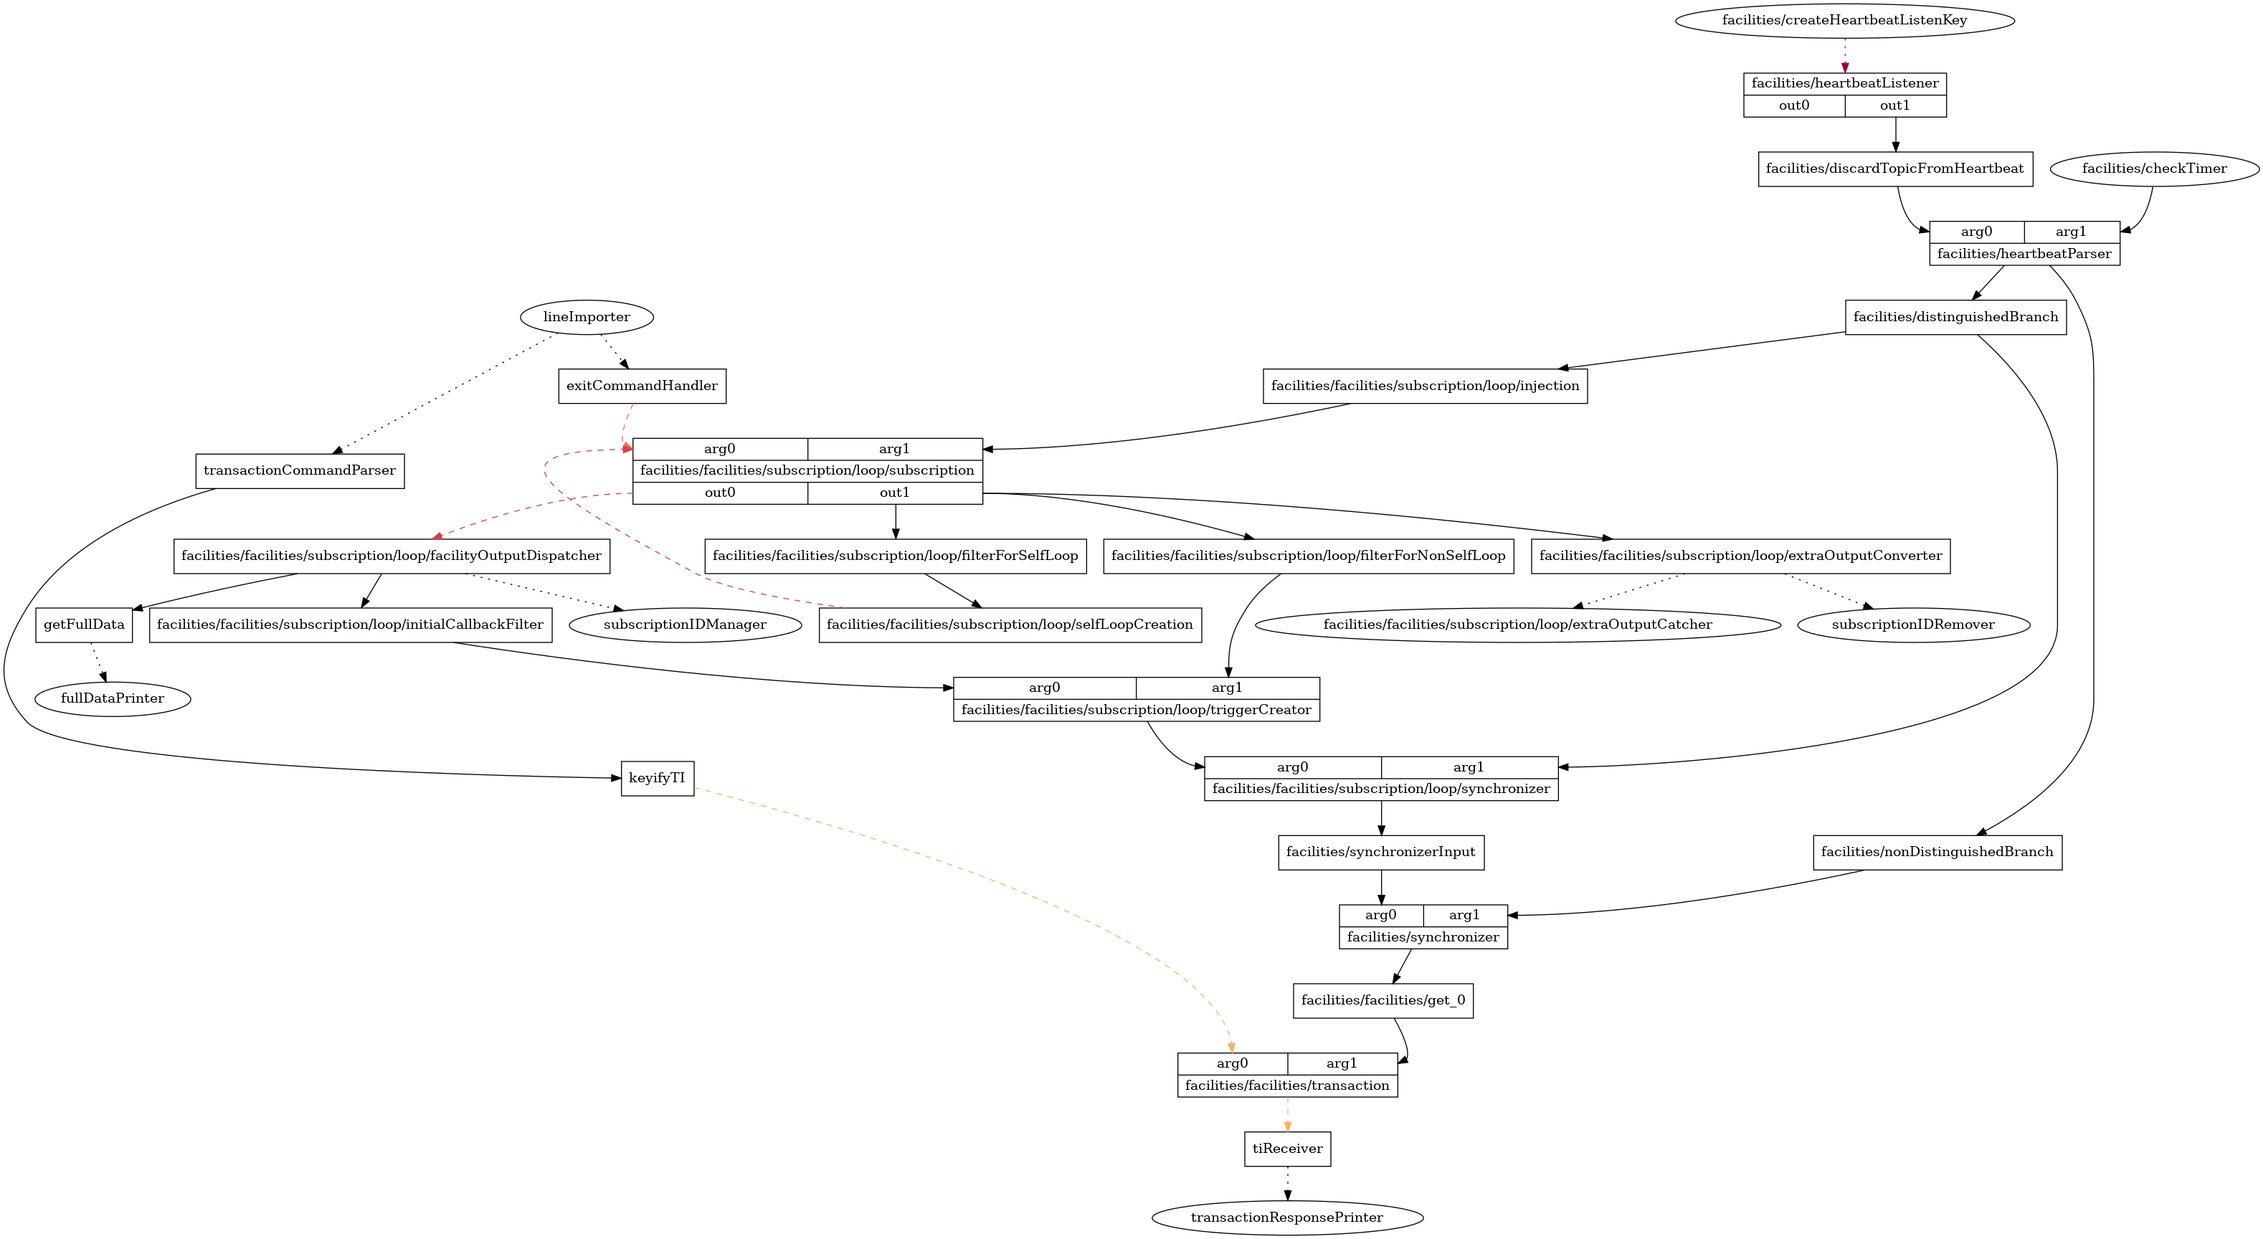
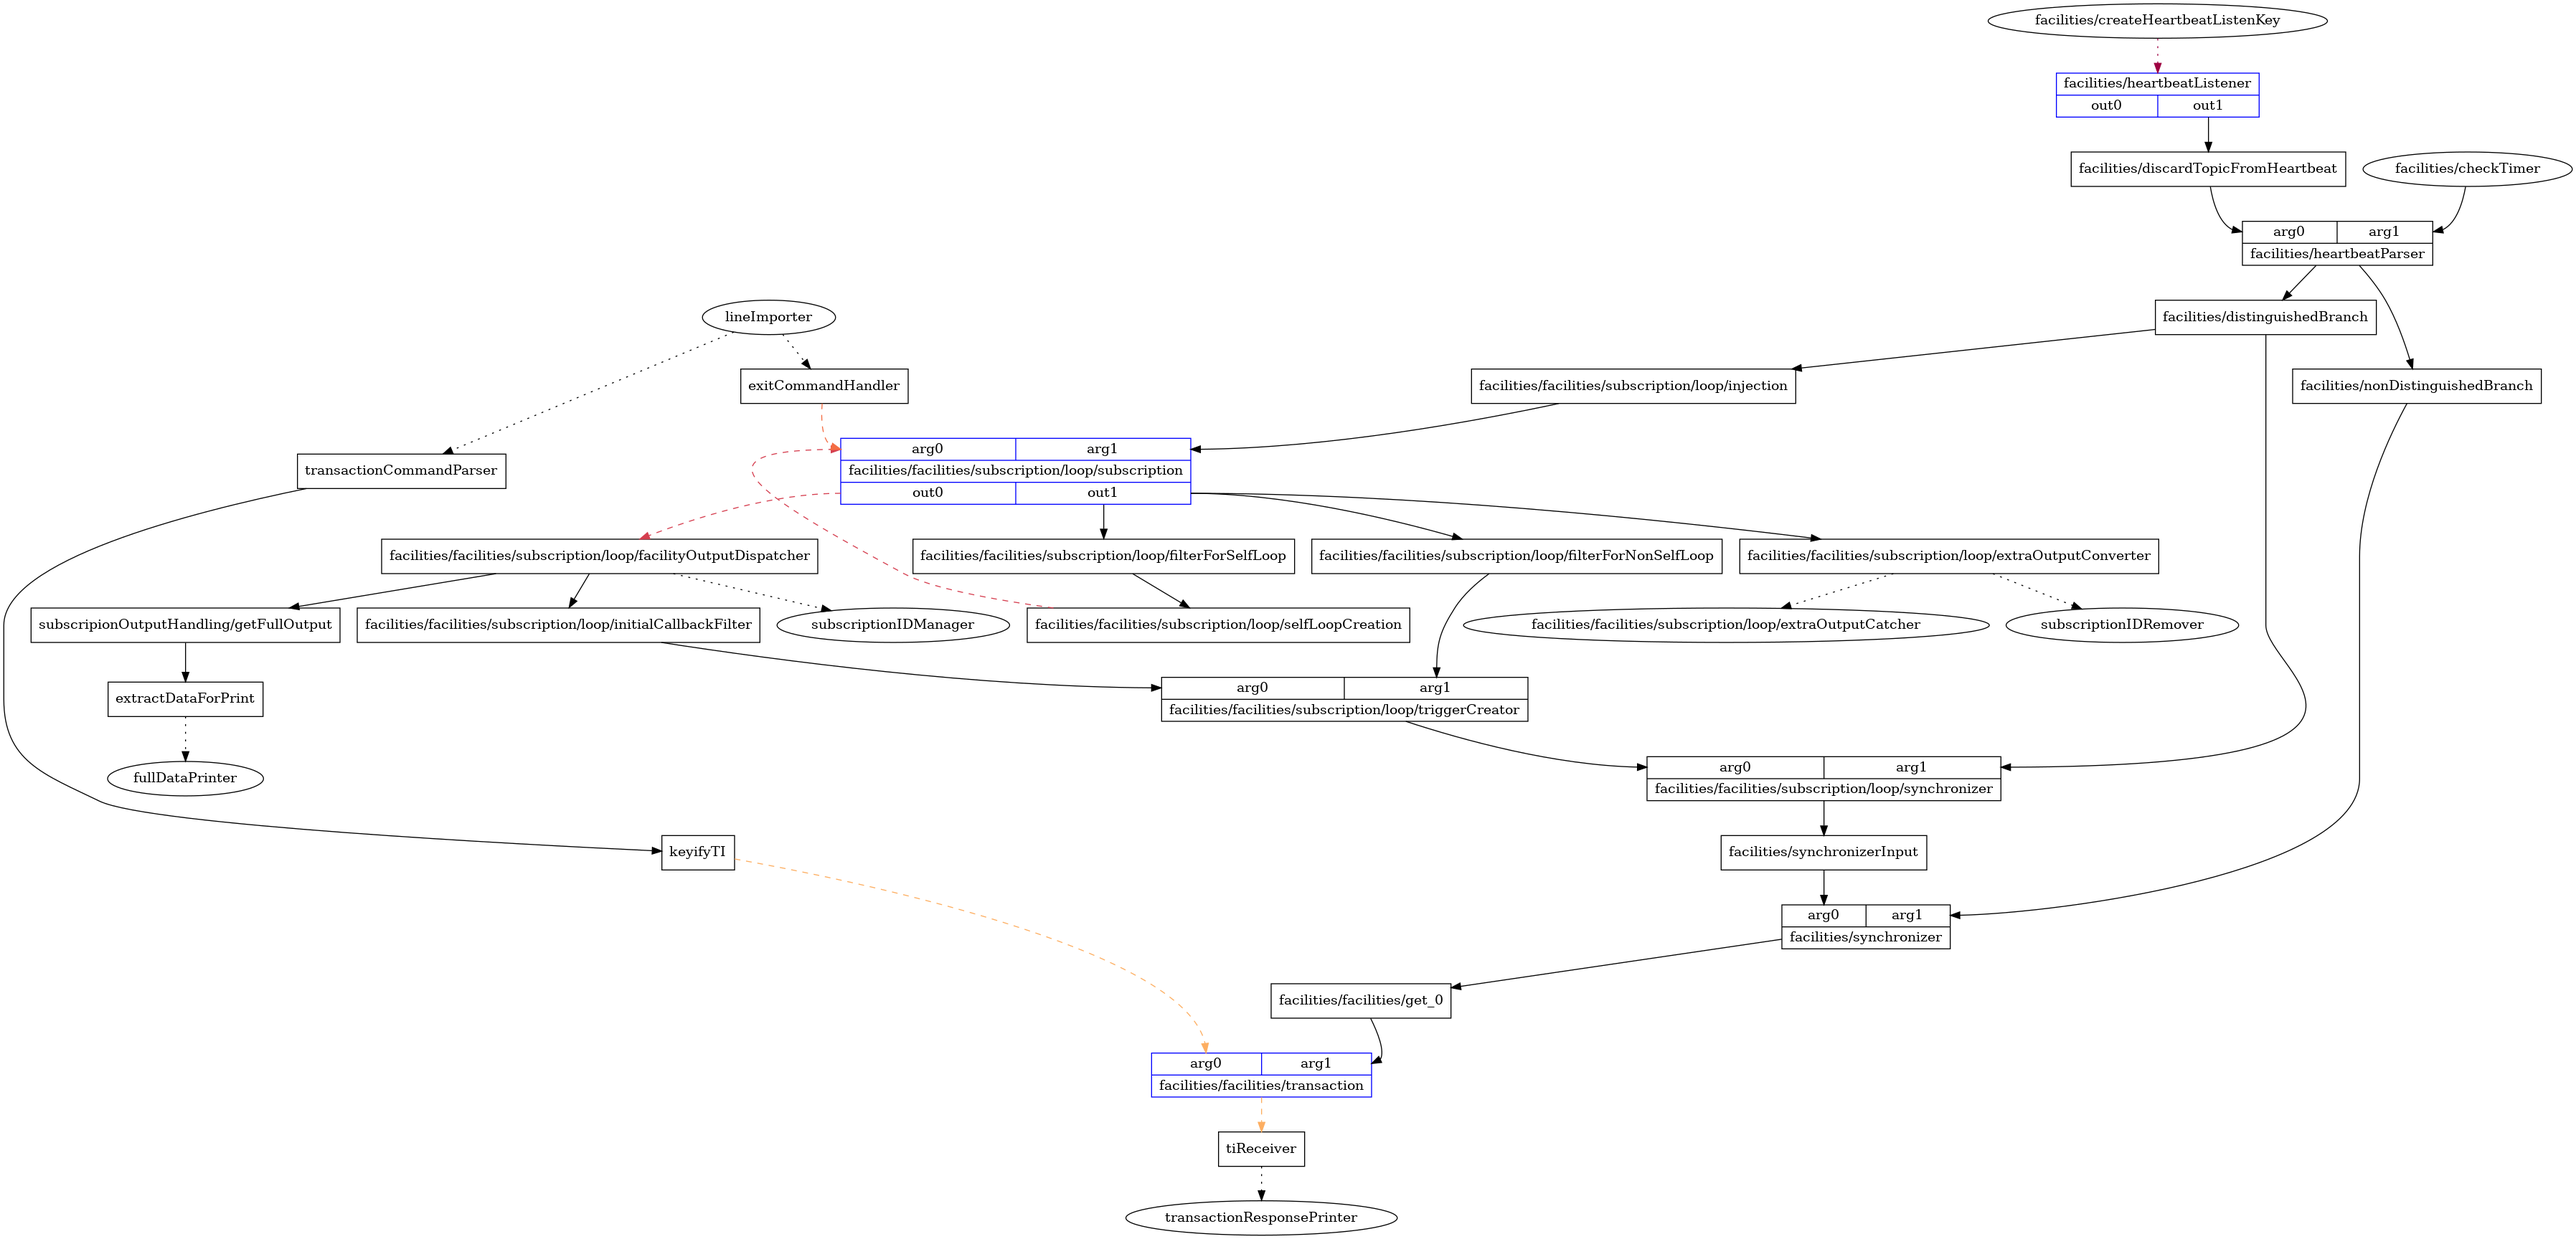
add snapshotrequest support, allow auto unsubscribe

diff --git a/db_one_list_subscription/node_client/client.ts b/db_one_list_subscription/node_client/client.ts
@@ -10,6 +10,7 @@ enum Command {
     , Delete 
     , Unsubscribe
     , List
+    , Snapshot
     , Unknown
 };
 
@@ -124,6 +125,13 @@ async function run(args : Args) {
                 , 0
             ]);
             break;
+        case Command.Snapshot:
+            keyify.pipe(subscriptionStream[0]);
+            subscriptionStream[1].pipe(resultHandlingStream);
+            sendCommand(keyify, [
+                4, {keys: [0]}
+            ]);
+            break;
         default:
             break;
     }
@@ -149,6 +157,9 @@ async function run(args : Args) {
             break;
         case 'list':
             cmd = Command.List;
+            break;
+        case 'snapshot':
+            cmd = Command.Snapshot;
             break;
         default:
             break;

diff --git a/db_one_list_subscription/DBOneListSinglePassPrinter.cpp b/db_one_list_subscription/DBOneListSinglePassPrinter.cpp
@@ -99,8 +99,8 @@ typename R::template Sink<basic::VoidStruct> dbSinglePassPrinterLogic(
         }
     );
 
-    auto printFullUpdate = M::template liftPure<typename M::template KeyedData<typename GS::Input, DI::FullUpdate>>(
-        [&env](typename M::template KeyedData<typename GS::Input, DI::FullUpdate> &&update) -> typename M::EnvironmentType::IDType {
+    auto printFullUpdate = M::template pureExporter<typename M::template KeyedData<typename GS::Input, DI::FullUpdate>>(
+        [&env](typename M::template KeyedData<typename GS::Input, DI::FullUpdate> &&update) {
             std::ostringstream oss;
             oss << "Got full update {";
             oss << "globalVersion=" << update.data.version;
@@ -135,25 +135,9 @@ typename R::template Sink<basic::VoidStruct> dbSinglePassPrinterLogic(
             oss << "]";
             oss << "} (from " << env.id_to_string(update.key.id()) << ")";
             env.log(infra::LogLevel::Info, oss.str());
-
-            return update.key.id();
         }
     );
-    
-    auto unsubscriber = M::template liftMaybe<typename M::EnvironmentType::IDType>(
-        [](typename M::EnvironmentType::IDType &&id) -> std::optional<typename GS::Input> {
-            static std::atomic<bool> unsubscribed = false;
-            if (!unsubscribed) {
-                unsubscribed = true;
-                return typename GS::Input {
-                    typename GS::Unsubscription {std::move(id)}
-                };
-            } else {
-                return std::nullopt;
-            }
-        }
-    );
-   
+      
     auto createCommand = M::template liftPure<basic::VoidStruct>(
         [](basic::VoidStruct &&) -> typename GS::Input {
             return typename GS::Input {
@@ -174,15 +158,11 @@ typename R::template Sink<basic::VoidStruct> dbSinglePassPrinterLogic(
         r 
         , "outputHandling"
         , queryConnector
-        , std::move(keyedCommand)     
+        , std::move(keyedCommand)   
+        , std::chrono::milliseconds(100)   //delay this amount of time before unsubscription
     );
     r.exportItem("printAck", printAck, clientOutputs.rawSubscriptionOutputs.clone());
-    //Please note that as soon as keyify is hooked, we don't need to
-    //call queryConnector again, since the keyify'ed unsubscription
-    //order will flow into the facility. If in doubt, look at the generated graph
-    r.execute(keyify
-        , r.execute("unsubscriber", unsubscriber
-            , r.execute("printFullUpdate", printFullUpdate, clientOutputs.fullUpdates.clone())));
+    r.exportItem("printFullUpdate", printFullUpdate, clientOutputs.fullUpdates.clone());
 
     return r.actionAsSink(createCommand);
 }

diff --git a/db_one_list_subscription/python_client/client.py b/db_one_list_subscription/python_client/client.py
@@ -16,6 +16,7 @@ class Command(Enum):
     Delete = 2
     Unsubscribe = 3
     List = 4
+    Snapshot = 5
 
 def attachMyIdentity(x : bytes) -> bytes:
     return cbor2.dumps(["python_client", x])
@@ -31,13 +32,15 @@ def parseCommand(s : str) -> Command:
         return Command.Unsubscribe
     elif s == 'list':
         return Command.List
+    elif s == 'snapshot':
+        return Command.Snapshot
     else:
         return None
 
 def setup_queue(cmd : Command, qin : asyncio.Queue, qout : asyncio.Queue) -> List[asyncio.Task] :
     subscriptionLocator = "rabbitmq://127.0.0.1::guest:guest:test_db_one_list_cmd_subscription_queue"
     transactionLocator = "rabbitmq://127.0.0.1::guest:guest:test_db_one_list_cmd_transaction_queue"
-    if cmd in [Command.Subscribe, Command.Unsubscribe, Command.List]:
+    if cmd in [Command.Subscribe, Command.Unsubscribe, Command.List, Command.Snapshot]:
         return TMTransport.MultiTransportFacilityClient.facility(
             subscriptionLocator, qin, qout,
             identityAttacher=attachMyIdentity
@@ -109,6 +112,11 @@ async def delete(qin : asyncio.Queue, qout : asyncio.Queue, name : str, old_vers
         }
     ]))
 
+async def snapshot(qin : asyncio.Queue, qout : asyncio.Queue):
+    await send(qin, qout, cbor2.dumps([
+        4, {'keys': [0]}
+    ]))
+
 @click.command()
 @click.option('--command', help='subscribe|update|delete|unsubscribe|list')
 @click.option('--name', help='name field for db row', default='')
@@ -134,9 +142,12 @@ def run(command : str, name : str, amount : int, stat : float, old_version : int
         elif cmd == Command.Delete:
             tasks.append(asyncio.create_task(delete(qin, qout, name, old_version, old_count)))
         elif cmd == Command.Unsubscribe:
-            tasks.append(asyncio.create_task(unsubscribe(qin, qout, id)))
+            tasks.append(asyncio.create_task(unsubscribe(qin, qout, id)))      
         elif cmd == Command.List:
             tasks.append(asyncio.create_task(list(qin, qout)))
+        elif cmd == Command.Snapshot:
+            tasks.append(asyncio.create_task(snapshot(qin, qout)))  
+
         await asyncio.gather(*tasks)
     asyncio.run(asyncMain())
 

diff --git a/db_subscription/DBSubscriptionClient.cpp b/db_subscription/DBSubscriptionClient.cpp
@@ -145,6 +145,10 @@ void diMain(std::string const &cmd, std::string const &key, std::string const &i
                 return GS::Input {
                     GS::ListSubscriptions {}
                 };
+            } else if (cmd == "snapshot") {
+                return GS::Input {
+                    GS::SnapshotRequest { std::vector<DI::Key> {key} }
+                };
             } else {
                 return std::nullopt;
             }
@@ -319,7 +323,7 @@ int main(int argc, char **argv) {
     po::options_description desc("allowed options");
     desc.add_options()
         ("help", "display help message")
-        ("command", po::value<std::string>(), "the command (subscribe, insert, update, delete, unsubscribe, list)")
+        ("command", po::value<std::string>(), "the command (subscribe, insert, update, delete, unsubscribe, list, snapshot)")
         ("key", po::value<std::string>(), "key for the command")
         ("value1", po::value<int>(), "value1 for the command")
         ("value2", po::value<std::string>(), "value2 for the command")
@@ -344,8 +348,8 @@ int main(int argc, char **argv) {
     }
 
     auto cmd = vm["command"].as<std::string>();
-    if (cmd != "subscribe" && cmd != "insert" && cmd != "update" && cmd != "delete" && cmd != "unsubscribe" && cmd != "list") {
-        std::cerr << "Command must be subscribe, insert, update, delete or unsubsribe\n";
+    if (cmd != "subscribe" && cmd != "insert" && cmd != "update" && cmd != "delete" && cmd != "unsubscribe" && cmd != "list" && cmd != "snapshot") {
+        std::cerr << "Command must be subscribe, insert, update, delete, unsubsribe, list or snapshot\n";
         return 1;
     }
 
@@ -446,5 +450,12 @@ int main(int argc, char **argv) {
         old_version = vm["old_version"].as<int64_t>();
         force = vm.count("force");
         tiMain(cmd, key, value1, value2, old_value1, old_value2, old_version, force);    
+    } else if (cmd == "snapshot") {
+        if (!vm.count("key")) {
+            std::cerr << "Please provide key for command\n";
+            return 1;
+        }
+        key = vm["key"].as<std::string>();
+        diMain(cmd, key, idStr);
     }
 }

diff --git a/db_one_list_subscription/DBOneListSubscriptionClient.cpp b/db_one_list_subscription/DBOneListSubscriptionClient.cpp
@@ -156,6 +156,10 @@ void diMain(std::string const &cmd, std::string const &idStr) {
                 return GS::Input {
                     GS::ListSubscriptions {}
                 };
+            } else if (cmd == "snapshot") {
+                return GS::Input {
+                    GS::SnapshotRequest { std::vector<Key> {Key {}} }
+                };
             } else {
                 return std::nullopt;
             }
@@ -311,7 +315,7 @@ int main(int argc, char **argv) {
     po::options_description desc("allowed options");
     desc.add_options()
         ("help", "display help message")
-        ("command", po::value<std::string>(), "the command (subscribe, update, delete, unsubscribe, list)")
+        ("command", po::value<std::string>(), "the command (subscribe, update, delete, unsubscribe, list, snapshot)")
         ("name", po::value<std::string>(), "name for the command")
         ("amount", po::value<int>(), "amount for the command")
         ("stat", po::value<double>(), "stat for the command")
@@ -334,8 +338,8 @@ int main(int argc, char **argv) {
     }
 
     auto cmd = vm["command"].as<std::string>();
-    if (cmd != "subscribe" && cmd != "update" && cmd != "delete" && cmd != "unsubscribe" && cmd != "list") {
-        std::cerr << "Command must be subscribe, update, delete or unsubsribe\n";
+    if (cmd != "subscribe" && cmd != "update" && cmd != "delete" && cmd != "unsubscribe" && cmd != "list" && cmd != "snapshot") {
+        std::cerr << "Command must be subscribe, update, delete, unsubsribe, list or snapshot\n";
         return 1;
     }
 
@@ -356,6 +360,8 @@ int main(int argc, char **argv) {
         idStr = vm["id"].as<std::string>();
         diMain(cmd, idStr);
     } else if (cmd == "list") {
+        diMain(cmd, idStr);
+    } else if (cmd == "snapshot") {
         diMain(cmd, idStr);
     } else if (cmd == "update") {
         if (!vm.count("name")) {

diff --git a/db_one_list_subscription/dotnet_client/Program.cs b/db_one_list_subscription/dotnet_client/Program.cs
@@ -14,6 +14,7 @@ namespace dotnet_client
             , Delete
             , Unsubscribe
             , List
+            , Snapshot
             , Unknown
         };
         struct Data {
@@ -175,6 +176,14 @@ namespace dotnet_client
                     .Add(0) //0 means empty object (the ListSubscriptions object)
             );
         }
+        void Snapshot() {
+            SendCommand(
+                "test_db_one_list_cmd_subscription_queue"
+                , CBORObject.NewArray()
+                    .Add(4) //snapshot
+                    .Add(CBORObject.NewMap().Add("keys", CBORObject.NewArray().Add(0))) //subscription object, 0 is the key (VoidStruct)
+            );
+        }
         void Run(Command cmd, Data data) {
             Start();
             switch (cmd) {
@@ -192,6 +201,9 @@ namespace dotnet_client
                 break;
             case Command.List:
                 List(data);
+                break;
+            case Command.Snapshot:
+                Snapshot();
                 break;
             default:
                 break;
@@ -277,6 +289,9 @@ namespace dotnet_client
                     break;
                 case "list":
                     new Program().Run(Command.List, data);
+                    break;
+                case "snapshot":
+                    new Program().Run(Command.Snapshot, data);
                     break;
                 default:
                     break;
